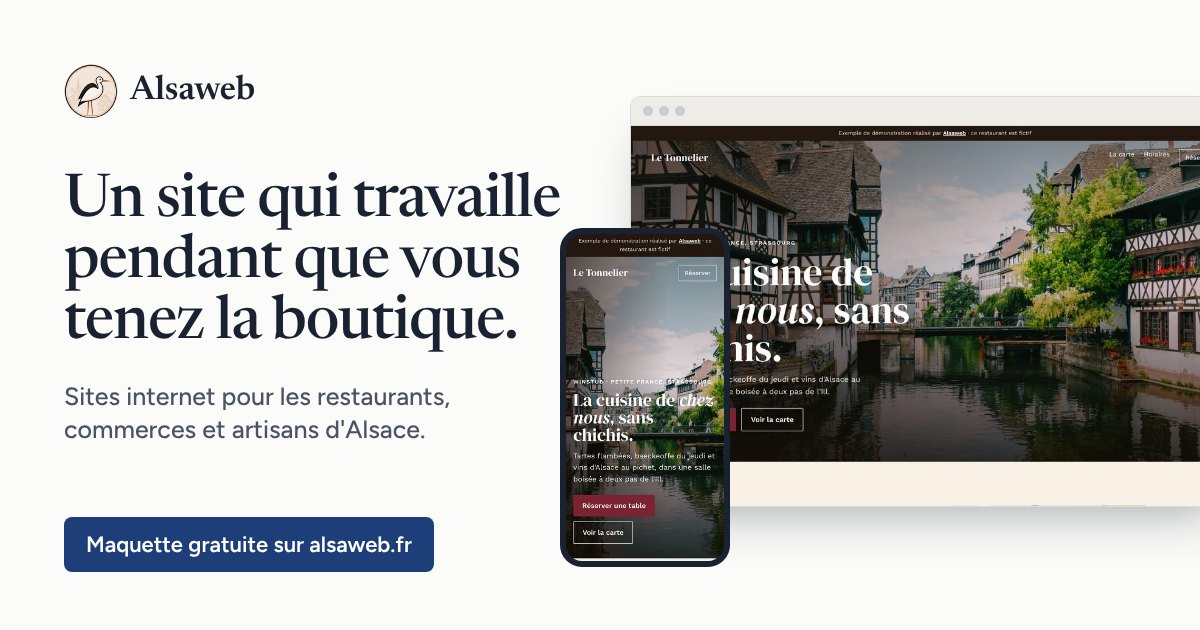
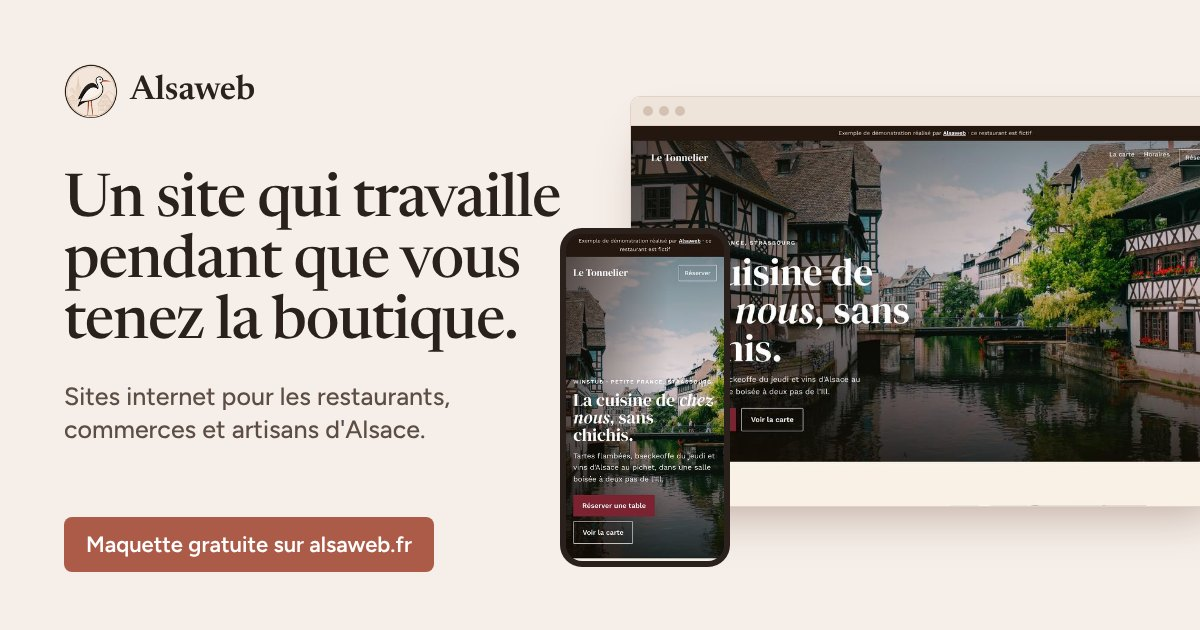
Retour aux couleurs grès rose et sapin (palette A)
Claude-Session: https://claude.ai/code/session_0184iqwkrPFo7xb37V2U9KgH

diff --git a/index.html b/index.html
@@ -8,7 +8,7 @@
 <link rel="canonical" href="https://alsaweb.fr/">
 <link rel="icon" type="image/png" sizes="32x32" href="favicon-32.png">
 <link rel="apple-touch-icon" href="apple-touch-icon.png">
-<meta name="theme-color" content="#FBFBF9">
+<meta name="theme-color" content="#F6EFE9">
 <meta property="og:type" content="website">
 <meta property="og:locale" content="fr_FR">
 <meta property="og:site_name" content="Alsaweb">
@@ -63,14 +63,18 @@
 <link href="https://fonts.googleapis.com/css2?family=Newsreader:opsz,wght@6..72,500;6..72,600&family=Figtree:wght@400;500;600&display=swap" rel="stylesheet">
 <style>
 :root{
-  --papier:#FBFBF9;     /* fond */
-  --pierre:#EEECE7;     /* sections claires */
-  --encre:#1A2130;      /* texte */
-  --encre-2:#4B5263;    /* texte secondaire */
-  --email:#1D3E78;      /* bleu des plaques émaillées */
-  --email-fonce:#142C57;
-  --ligne:#D9DBDF;
-  --blanc:#FFFFFF;
+  --papier:#F6EFE9;     /* fond pierre claire */
+  --pierre:#EFE4DA;     /* sections claires */
+  --encre:#2A211C;      /* texte */
+  --encre-2:#5C4E45;    /* texte secondaire */
+  --email:#AC5B49;      /* grès rose des Vosges : boutons et accents */
+  --email-fonce:#8C4638;
+  --sapin:#3B5A47;      /* sapin des Vosges : liens et mini-audit */
+  --ligne:#E0D2C6;
+  --blanc:#FFFDFB;
+  --sombre-ligne:#4A3B32;
+  --sombre-texte:#E4D8CD;
+  --sombre-texte-2:#B9A899;
   --serif:'Newsreader',Georgia,'Times New Roman',serif;
   --sans:'Figtree',system-ui,-apple-system,'Segoe UI',sans-serif;
 }
@@ -83,7 +87,7 @@ html{scroll-behavior:smooth}
 body{font-family:var(--sans);background:var(--papier);color:var(--encre);line-height:1.6;font-size:17px;-webkit-text-size-adjust:100%}
 img{max-width:100%;height:auto;display:block}
 h1,h2,h3{font-family:var(--serif);font-weight:600;line-height:1.1;letter-spacing:-.01em}
-a{color:var(--email)}
+a{color:var(--sapin)}
 a:focus-visible,button:focus-visible,input:focus-visible,textarea:focus-visible,summary:focus-visible{outline:3px solid var(--email);outline-offset:3px;border-radius:4px}
 .wrap{max-width:1120px;margin:0 auto;padding:0 24px}
 .nowrap{white-space:nowrap}
@@ -101,7 +105,7 @@ section{padding:88px 0;scroll-margin-top:66px}
 .btn-trait:hover{background:var(--encre);color:#fff}
 
 /* Navigation */
-nav{position:sticky;top:0;z-index:50;background:rgba(251,251,249,.94);backdrop-filter:blur(8px);border-bottom:1px solid var(--ligne)}
+nav{position:sticky;top:0;z-index:50;background:rgba(246,239,233,.94);backdrop-filter:blur(8px);border-bottom:1px solid var(--ligne)}
 .nav-inner{display:flex;align-items:center;justify-content:space-between;gap:16px;padding:12px 24px;max-width:1120px;margin:0 auto}
 .logo{display:flex;align-items:center;gap:10px;text-decoration:none;color:var(--encre);font-family:var(--serif);font-weight:600;font-size:1.4rem;letter-spacing:-.01em}
 .logo img{width:40px;height:40px}
@@ -119,11 +123,11 @@ nav{position:sticky;top:0;z-index:50;background:rgba(251,251,249,.94);backdrop-f
 .hero-ctas{display:flex;gap:12px;flex-wrap:wrap}
 .hero-note{margin-top:16px;font-size:.93rem;color:var(--encre-2)}
 .vitrine{position:relative;padding:0 0 34px 0;margin-right:46px}
-.vitrine .ordi{border:1px solid var(--ligne);border-radius:10px;overflow:hidden;background:#fff;box-shadow:0 24px 50px -24px rgba(26,33,48,.45)}
+.vitrine .ordi{border:1px solid var(--ligne);border-radius:10px;overflow:hidden;background:#fff;box-shadow:0 24px 50px -24px rgba(90,50,35,.45)}
 .vitrine .ordi-barre{display:flex;gap:6px;padding:9px 12px;background:var(--pierre);border-bottom:1px solid var(--ligne)}
-.vitrine .ordi-barre i{width:9px;height:9px;border-radius:50%;background:#C9CCD2}
+.vitrine .ordi-barre i{width:9px;height:9px;border-radius:50%;background:#D3C2B4}
 .vitrine .ordi img{aspect-ratio:16/9;object-fit:cover;object-position:top;width:100%}
-.vitrine .tel{position:absolute;right:-46px;bottom:0;width:29%;border:5px solid var(--encre);border-radius:20px;overflow:hidden;background:var(--encre);box-shadow:0 18px 36px -16px rgba(26,33,48,.6)}
+.vitrine .tel{position:absolute;right:-46px;bottom:0;width:29%;border:5px solid var(--encre);border-radius:20px;overflow:hidden;background:var(--encre);box-shadow:0 18px 36px -16px rgba(42,33,28,.6)}
 .vitrine .tel img{aspect-ratio:300/620;object-fit:cover;object-position:top;width:100%}
 .legende{margin-top:14px;font-size:.88rem;color:var(--encre-2)}
 @media(max-width:900px){
@@ -140,8 +144,8 @@ nav{position:sticky;top:0;z-index:50;background:rgba(251,251,249,.94);backdrop-f
 .pourquoi figcaption{font-size:.82rem;color:var(--encre-2);margin-top:8px}
 .pourquoi h2{font-size:clamp(1.9rem,3.8vw,2.7rem);margin-bottom:14px}
 .pourquoi .intro{color:var(--encre-2);font-size:1.06rem;margin-bottom:28px}
-.raisons{list-style:none;border-top:1px solid #CFD2D8}
-.raisons li{padding:18px 0;border-bottom:1px solid #CFD2D8}
+.raisons{list-style:none;border-top:1px solid #D9C8B9}
+.raisons li{padding:18px 0;border-bottom:1px solid #D9C8B9}
 .raisons strong{display:block;font-family:var(--serif);font-weight:600;font-size:1.25rem;margin-bottom:4px}
 .raisons span{color:var(--encre-2)}
 @media(max-width:900px){
@@ -171,14 +175,14 @@ nav{position:sticky;top:0;z-index:50;background:rgba(251,251,249,.94);backdrop-f
 .ex-grid{display:grid;grid-template-columns:repeat(3,minmax(0,1fr));gap:36px}
 .ex{text-decoration:none;color:inherit}
 .ex .cadre{position:relative;padding:0 30px 20px 0;margin-bottom:18px}
-.ex .cadre .o{border:1px solid var(--ligne);border-radius:8px;overflow:hidden;box-shadow:0 14px 30px -18px rgba(26,33,48,.45)}
+.ex .cadre .o{border:1px solid var(--ligne);border-radius:8px;overflow:hidden;box-shadow:0 14px 30px -18px rgba(90,50,35,.45)}
 .ex .cadre .o img{aspect-ratio:16/10;object-fit:cover;object-position:top;width:100%}
 .ex .cadre .t{position:absolute;right:0;bottom:0;width:28%;border:3px solid var(--encre);border-radius:12px;overflow:hidden}
 .ex .cadre .t img{aspect-ratio:300/620;object-fit:cover;object-position:top;width:100%}
 .ex h3{font-size:1.3rem;margin-bottom:4px}
 .ex p{color:var(--encre-2);font-size:.96rem;margin-bottom:8px}
-.ex .voir{font-weight:600;color:var(--email);text-decoration:underline;text-underline-offset:3px}
-.ex:hover h3{color:var(--email)}
+.ex .voir{font-weight:600;color:var(--email-fonce);text-decoration:underline;text-underline-offset:3px}
+.ex:hover h3{color:var(--email-fonce)}
 .ex-note{margin-top:34px;font-size:.92rem;color:var(--encre-2);max-width:46em}
 .ex-aide{display:none;font-size:.9rem;color:var(--encre-2);margin:-24px 0 18px}
 @media(max-width:900px){
@@ -189,31 +193,31 @@ nav{position:sticky;top:0;z-index:50;background:rgba(251,251,249,.94);backdrop-f
 }
 
 /* Offres */
-.offres{background:var(--encre);color:#E7E9EE}
+.offres{background:var(--encre);color:var(--sombre-texte)}
 .offres .titre h2{color:#fff}
-.offres .titre p{color:#B9BFCC}
-.offres-grid{display:grid;grid-template-columns:repeat(3,minmax(0,1fr));border-top:1px solid #3A4357}
-.offre{padding:30px 28px 32px;border-right:1px solid #3A4357;display:flex;flex-direction:column}
+.offres .titre p{color:var(--sombre-texte-2)}
+.offres-grid{display:grid;grid-template-columns:repeat(3,minmax(0,1fr));border-top:1px solid var(--sombre-ligne)}
+.offre{padding:30px 28px 32px;border-right:1px solid var(--sombre-ligne);display:flex;flex-direction:column}
 .offre:first-child{padding-left:0}
 .offre:last-child{border-right:none;padding-right:0}
 .offre h3{font-size:1.6rem;color:#fff}
-.offre .cible{color:#AEB5C3;font-size:.95rem;margin:2px 0 18px}
+.offre .cible{color:var(--sombre-texte-2);font-size:.95rem;margin:2px 0 18px}
 .offre .prix{font-family:var(--serif);font-size:2.6rem;font-weight:500;color:#fff;line-height:1}
-.offre .prix small{font-family:var(--sans);font-size:.9rem;color:#AEB5C3;font-weight:400}
+.offre .prix small{font-family:var(--sans);font-size:.9rem;color:var(--sombre-texte-2);font-weight:400}
 .offre ul{list-style:none;margin:22px 0 26px;flex:1}
 .offre li{padding:6px 0 6px 22px;position:relative;font-size:.96rem}
-.offre li::before{content:"";position:absolute;left:2px;top:15px;width:8px;height:2px;background:#8FA6D1}
+.offre li::before{content:"";position:absolute;left:2px;top:15px;width:8px;height:2px;background:#C9876F}
 .offre .btn{align-self:flex-start;background:#fff;color:var(--encre)}
-.offre .btn:hover{background:#DCE4F3}
-.offre.conseil .cible{color:#C6D3EE}
-.offre.conseil .btn{background:#4A73C0;color:#fff}
-.offre.conseil .btn:hover{background:#3B62AD}
-.entretien{margin-top:34px;padding-top:26px;border-top:1px solid #3A4357;display:grid;grid-template-columns:minmax(0,1fr) minmax(0,1fr);gap:28px}
-.entretien p{font-size:.98rem;color:#C9CED8}
+.offre .btn:hover{background:#F1E4DA}
+.offre.conseil .cible{color:var(--sombre-texte)}
+.offre.conseil .btn{background:var(--email);color:#fff}
+.offre.conseil .btn:hover{background:var(--email-fonce)}
+.entretien{margin-top:34px;padding-top:26px;border-top:1px solid var(--sombre-ligne);display:grid;grid-template-columns:minmax(0,1fr) minmax(0,1fr);gap:28px}
+.entretien p{font-size:.98rem;color:var(--sombre-texte)}
 .entretien strong{color:#fff}
 @media(max-width:900px){
   .offres-grid{grid-template-columns:1fr}
-  .offre,.offre:first-child,.offre:last-child{padding:28px 0;border-right:none;border-bottom:1px solid #3A4357}
+  .offre,.offre:first-child,.offre:last-child{padding:28px 0;border-right:none;border-bottom:1px solid var(--sombre-ligne)}
   .entretien{grid-template-columns:1fr;gap:12px;border-top:none;padding-top:0}
 }
 
@@ -229,16 +233,17 @@ nav{position:sticky;top:0;z-index:50;background:rgba(251,251,249,.94);backdrop-f
 @media(max-width:900px){.qui-grid{grid-template-columns:1fr;gap:28px}}
 
 /* Mini-audit */
-.audit{background:var(--email);color:#E4EAF5}
+.audit{background:var(--sapin);color:#EEF2EC}
 .audit-grid{display:grid;grid-template-columns:minmax(0,1fr) minmax(0,1fr);gap:56px;align-items:center}
 .audit h2{font-size:clamp(1.9rem,3.8vw,2.7rem);color:#fff;margin-bottom:14px}
-.audit p{color:#D2DCEE}
+.audit p{color:#D5DED6}
 .audit ul{list-style:none;margin-top:20px;columns:2;column-gap:24px;font-size:.96rem}
 .audit li{padding:4px 0 4px 18px;position:relative;break-inside:avoid}
 .audit li::before{content:"";position:absolute;left:0;top:14px;width:8px;height:2px;background:#fff}
 .audit .form{background:#fff;color:var(--encre);border-radius:10px;padding:26px}
 .audit .form p{color:var(--encre-2)}
-.audit .form .btn{width:100%}
+.audit .form .btn{width:100%;background:var(--email)}
+.audit .form .btn:hover{background:var(--email-fonce)}
 .audit .form-rgpd{margin-top:12px}
 @media(max-width:900px){.audit-grid{grid-template-columns:1fr;gap:30px}}
 
@@ -262,39 +267,39 @@ fieldset.field legend{padding:0;float:left;width:100%}
 fieldset.field .choix{clear:both}
 .field label,.field legend{font-size:.92rem;font-weight:600;margin-bottom:7px;color:var(--encre)}
 .field .opt{font-weight:400;color:var(--encre-2)}
-.field input[type=text],.field input[type=email],.field input[type=tel],.field textarea{font-family:var(--sans);font-size:1rem;color:var(--encre);background:#fff;border:1.5px solid #C9CCD2;border-radius:8px;padding:12px 14px;width:100%;transition:border-color .15s ease}
+.field input[type=text],.field input[type=email],.field input[type=tel],.field textarea{font-family:var(--sans);font-size:1rem;color:var(--encre);background:#fff;border:1.5px solid var(--ligne);border-radius:8px;padding:12px 14px;width:100%;transition:border-color .15s ease}
 .field input:focus,.field textarea:focus{outline:none;border-color:var(--email)}
 .field textarea{resize:vertical}
 .choix{display:flex;flex-wrap:wrap;gap:8px}
 .choix label{margin:0;font-weight:500;font-size:.95rem}
 .choix input{position:absolute;opacity:0;width:1px;height:1px}
-.choix span{display:inline-block;padding:9px 15px;border:1.5px solid #C9CCD2;border-radius:999px;background:#fff;cursor:pointer;transition:border-color .15s ease,background .15s ease}
+.choix span{display:inline-block;padding:9px 15px;border:1.5px solid var(--ligne);border-radius:999px;background:var(--blanc);cursor:pointer;transition:border-color .15s ease,background .15s ease}
 .choix label:hover span{border-color:var(--email)}
 .choix input:checked + span{background:var(--email);border-color:var(--email);color:#fff}
 .choix input:focus-visible + span{outline:3px solid var(--email);outline-offset:2px}
 .form-foot{display:flex;flex-direction:column;align-items:center;gap:12px;margin-top:10px;text-align:center}
 .form-rgpd{font-size:.84rem;color:var(--encre-2);max-width:30em}
 .ou-direct{margin-top:28px;text-align:center;font-size:.96rem;color:var(--encre-2)}
-.form-merci{max-width:620px;margin:0 auto;text-align:center;background:#fff;border:1.5px solid var(--email);border-radius:10px;padding:36px 28px}
+.form-merci{max-width:620px;margin:0 auto;text-align:center;background:var(--blanc);border:1.5px solid var(--sapin);border-radius:10px;padding:36px 28px}
 .form-merci h3{font-size:1.6rem;margin-bottom:8px}
 .form-merci p{color:var(--encre-2)}
 .form-erreur{margin-top:14px;text-align:center;color:#A3361F;font-size:.94rem}
 
 /* Pied de page */
-footer{background:var(--encre);color:#B9BFCC;padding:56px 0 40px;font-size:.93rem}
+footer{background:var(--encre);color:var(--sombre-texte-2);padding:56px 0 40px;font-size:.93rem}
 .pied{display:grid;grid-template-columns:1.2fr 1fr 1fr;gap:40px}
 footer h3{font-family:var(--sans);font-size:.95rem;font-weight:600;color:#fff;margin-bottom:10px;letter-spacing:0}
-footer a{color:#DDE2EA}
+footer a{color:var(--sombre-texte)}
 footer p{margin-bottom:6px}
 .pied .marque{display:flex;align-items:center;gap:10px;font-family:var(--serif);font-size:1.4rem;font-weight:600;color:#fff;margin-bottom:10px}
 .pied .marque img{width:36px;height:36px}
-.pied-bas{margin-top:36px;padding-top:20px;border-top:1px solid #3A4357;font-size:.85rem}
+.pied-bas{margin-top:36px;padding-top:20px;border-top:1px solid var(--sombre-ligne);font-size:.85rem}
 @media(max-width:820px){.pied{grid-template-columns:1fr;gap:26px}}
 
 /* Barre d'appel sur téléphone */
 .barre-mobile{display:none}
 @media(max-width:760px){
-  .barre-mobile{display:grid;grid-template-columns:1fr 1.4fr;gap:8px;position:fixed;left:0;right:0;bottom:0;z-index:60;padding:10px 12px calc(10px + env(safe-area-inset-bottom));background:rgba(251,251,249,.97);border-top:1px solid var(--ligne);transition:transform .25s ease}
+  .barre-mobile{display:grid;grid-template-columns:1fr 1.4fr;gap:8px;position:fixed;left:0;right:0;bottom:0;z-index:60;padding:10px 12px calc(10px + env(safe-area-inset-bottom));background:rgba(246,239,233,.97);border-top:1px solid var(--ligne);transition:transform .25s ease}
   .barre-mobile a{text-align:center;padding:12px 10px;font-size:.98rem}
   .barre-mobile.cachee{transform:translateY(110%)}
   body{padding-bottom:72px}

diff --git a/legal.css b/legal.css
@@ -1,18 +1,19 @@
 :root{
-  --papier:#FBFBF9;
-  --pierre:#EEECE7;
-  --encre:#1A2130;
-  --encre-2:#4B5263;
-  --email:#1D3E78;
-  --ligne:#D9DBDF;
-  --blanc:#FFFFFF;
+  --papier:#F6EFE9;
+  --pierre:#EFE4DA;
+  --encre:#2A211C;
+  --encre-2:#5C4E45;
+  --email:#AC5B49;
+  --sapin:#3B5A47;
+  --ligne:#E0D2C6;
+  --blanc:#FFFDFB;
 }
 *{margin:0;padding:0;box-sizing:border-box}
 body{font-family:'Figtree',system-ui,sans-serif;background:var(--papier);color:var(--encre);line-height:1.65;font-size:17px}
-a{color:var(--email)}
+a{color:var(--sapin)}
 a:focus-visible{outline:3px solid var(--email);outline-offset:3px;border-radius:4px}
 
-nav{position:sticky;top:0;z-index:50;background:rgba(251,251,249,.94);backdrop-filter:blur(8px);border-bottom:1px solid var(--ligne)}
+nav{position:sticky;top:0;z-index:50;background:rgba(246,239,233,.94);backdrop-filter:blur(8px);border-bottom:1px solid var(--ligne)}
 .nav-inner{display:flex;align-items:center;justify-content:space-between;gap:16px;padding:14px 24px;max-width:1120px;margin:0 auto}
 .logo{font-family:'Newsreader',Georgia,serif;font-weight:600;font-size:1.4rem;color:var(--encre);text-decoration:none;display:flex;align-items:center;gap:10px}
 .logo-mark{width:40px;height:40px;flex:none;background:url(logo.png) center/cover no-repeat}
@@ -45,6 +46,6 @@ dl.fiche dt{color:var(--encre-2);font-size:.92rem}
 dl.fiche dd{font-weight:500}
 @media(max-width:560px){dl.fiche{grid-template-columns:1fr;gap:2px}dl.fiche dd{margin-bottom:10px}}
 
-footer{background:var(--encre);color:#B9BFCC;padding:30px 0;font-size:.88rem}
+footer{background:var(--encre);color:#B9A899;padding:30px 0;font-size:.88rem}
 .footer-inner{display:flex;justify-content:space-between;gap:16px;flex-wrap:wrap;max-width:1120px;margin:0 auto;padding:0 24px}
-footer a{color:#DDE2EA}
+footer a{color:#E4D8CD}

diff --git a/404.html b/404.html
@@ -10,7 +10,7 @@
 <link rel="preconnect" href="https://fonts.gstatic.com" crossorigin>
 <link href="https://fonts.googleapis.com/css2?family=Newsreader:opsz,wght@6..72,500;6..72,600&family=Figtree:wght@400;500&display=swap" rel="stylesheet">
 <style>
-  :root { --email:#1D3E78; --email-fonce:#142C57; --papier:#FBFBF9; --encre:#1A2130; --ligne:#D9DBDF; }
+  :root { --email:#AC5B49; --email-fonce:#8C4638; --papier:#F6EFE9; --encre:#2A211C; --ligne:#E0D2C6; }
   * { box-sizing:border-box; margin:0; }
   body { min-height:100vh; display:flex; align-items:center; justify-content:center; padding:24px 16px;
          background:var(--papier); color:var(--encre); font-family:Figtree, system-ui, sans-serif; line-height:1.6; }
@@ -19,7 +19,7 @@
           line-height:1; color:var(--email); letter-spacing:-.03em; }
   h1 { font-family:"Newsreader", Georgia, serif; font-weight:600; font-size:clamp(24px,5vw,32px);
        line-height:1.2; margin:18px 0 12px; }
-  p { color:#4B5263; margin-bottom:28px; }
+  p { color:#5C4E45; margin-bottom:28px; }
   a.btn { display:inline-block; background:var(--email); color:#fff; text-decoration:none; font-weight:500;
           padding:13px 22px; border-radius:8px; transition:background .2s; }
   a.btn:hover { background:var(--email-fonce); }

diff --git a/mentions-legales.html b/mentions-legales.html
@@ -8,7 +8,7 @@
 <link rel="canonical" href="https://alsaweb.fr/mentions-legales">
 <link rel="icon" type="image/png" sizes="32x32" href="favicon-32.png">
 <link rel="apple-touch-icon" href="apple-touch-icon.png">
-<meta name="theme-color" content="#FBFBF9">
+<meta name="theme-color" content="#F6EFE9">
 <link rel="preconnect" href="https://fonts.googleapis.com">
 <link rel="preconnect" href="https://fonts.gstatic.com" crossorigin>
 <link href="https://fonts.googleapis.com/css2?family=Newsreader:opsz,wght@6..72,500;6..72,600&family=Figtree:wght@400;500;600&display=swap" rel="stylesheet">

diff --git a/cgv.html b/cgv.html
@@ -8,7 +8,7 @@
 <link rel="canonical" href="https://alsaweb.fr/cgv">
 <link rel="icon" type="image/png" sizes="32x32" href="favicon-32.png">
 <link rel="apple-touch-icon" href="apple-touch-icon.png">
-<meta name="theme-color" content="#FBFBF9">
+<meta name="theme-color" content="#F6EFE9">
 <link rel="preconnect" href="https://fonts.googleapis.com">
 <link rel="preconnect" href="https://fonts.gstatic.com" crossorigin>
 <link href="https://fonts.googleapis.com/css2?family=Newsreader:opsz,wght@6..72,500;6..72,600&family=Figtree:wght@400;500;600&display=swap" rel="stylesheet">
